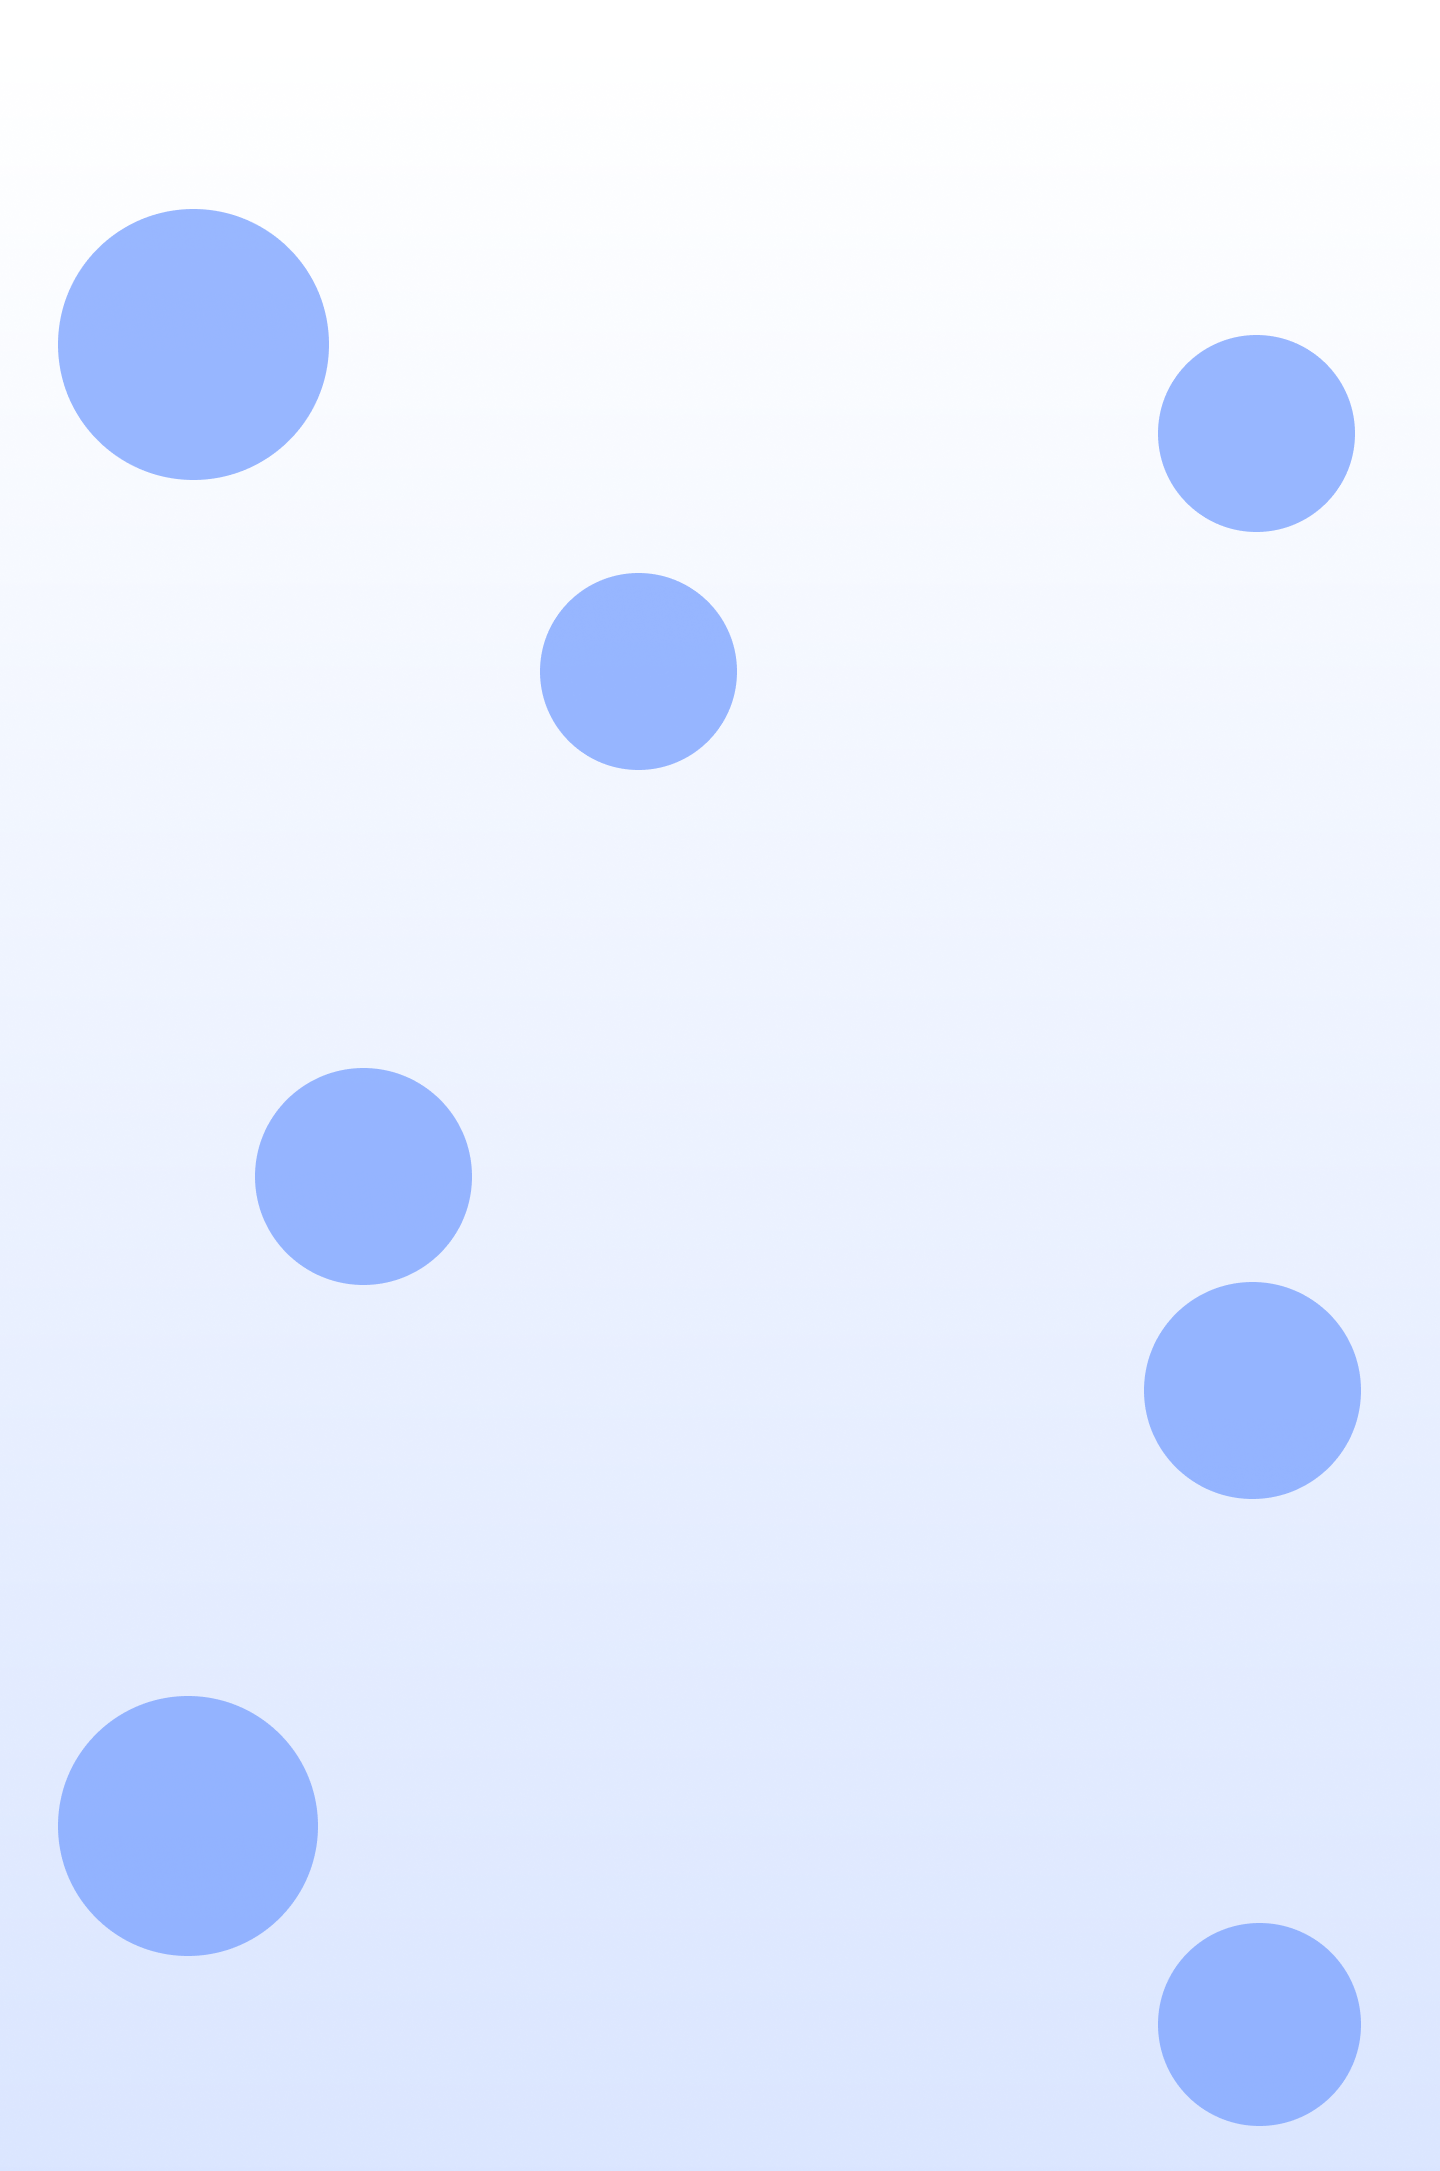
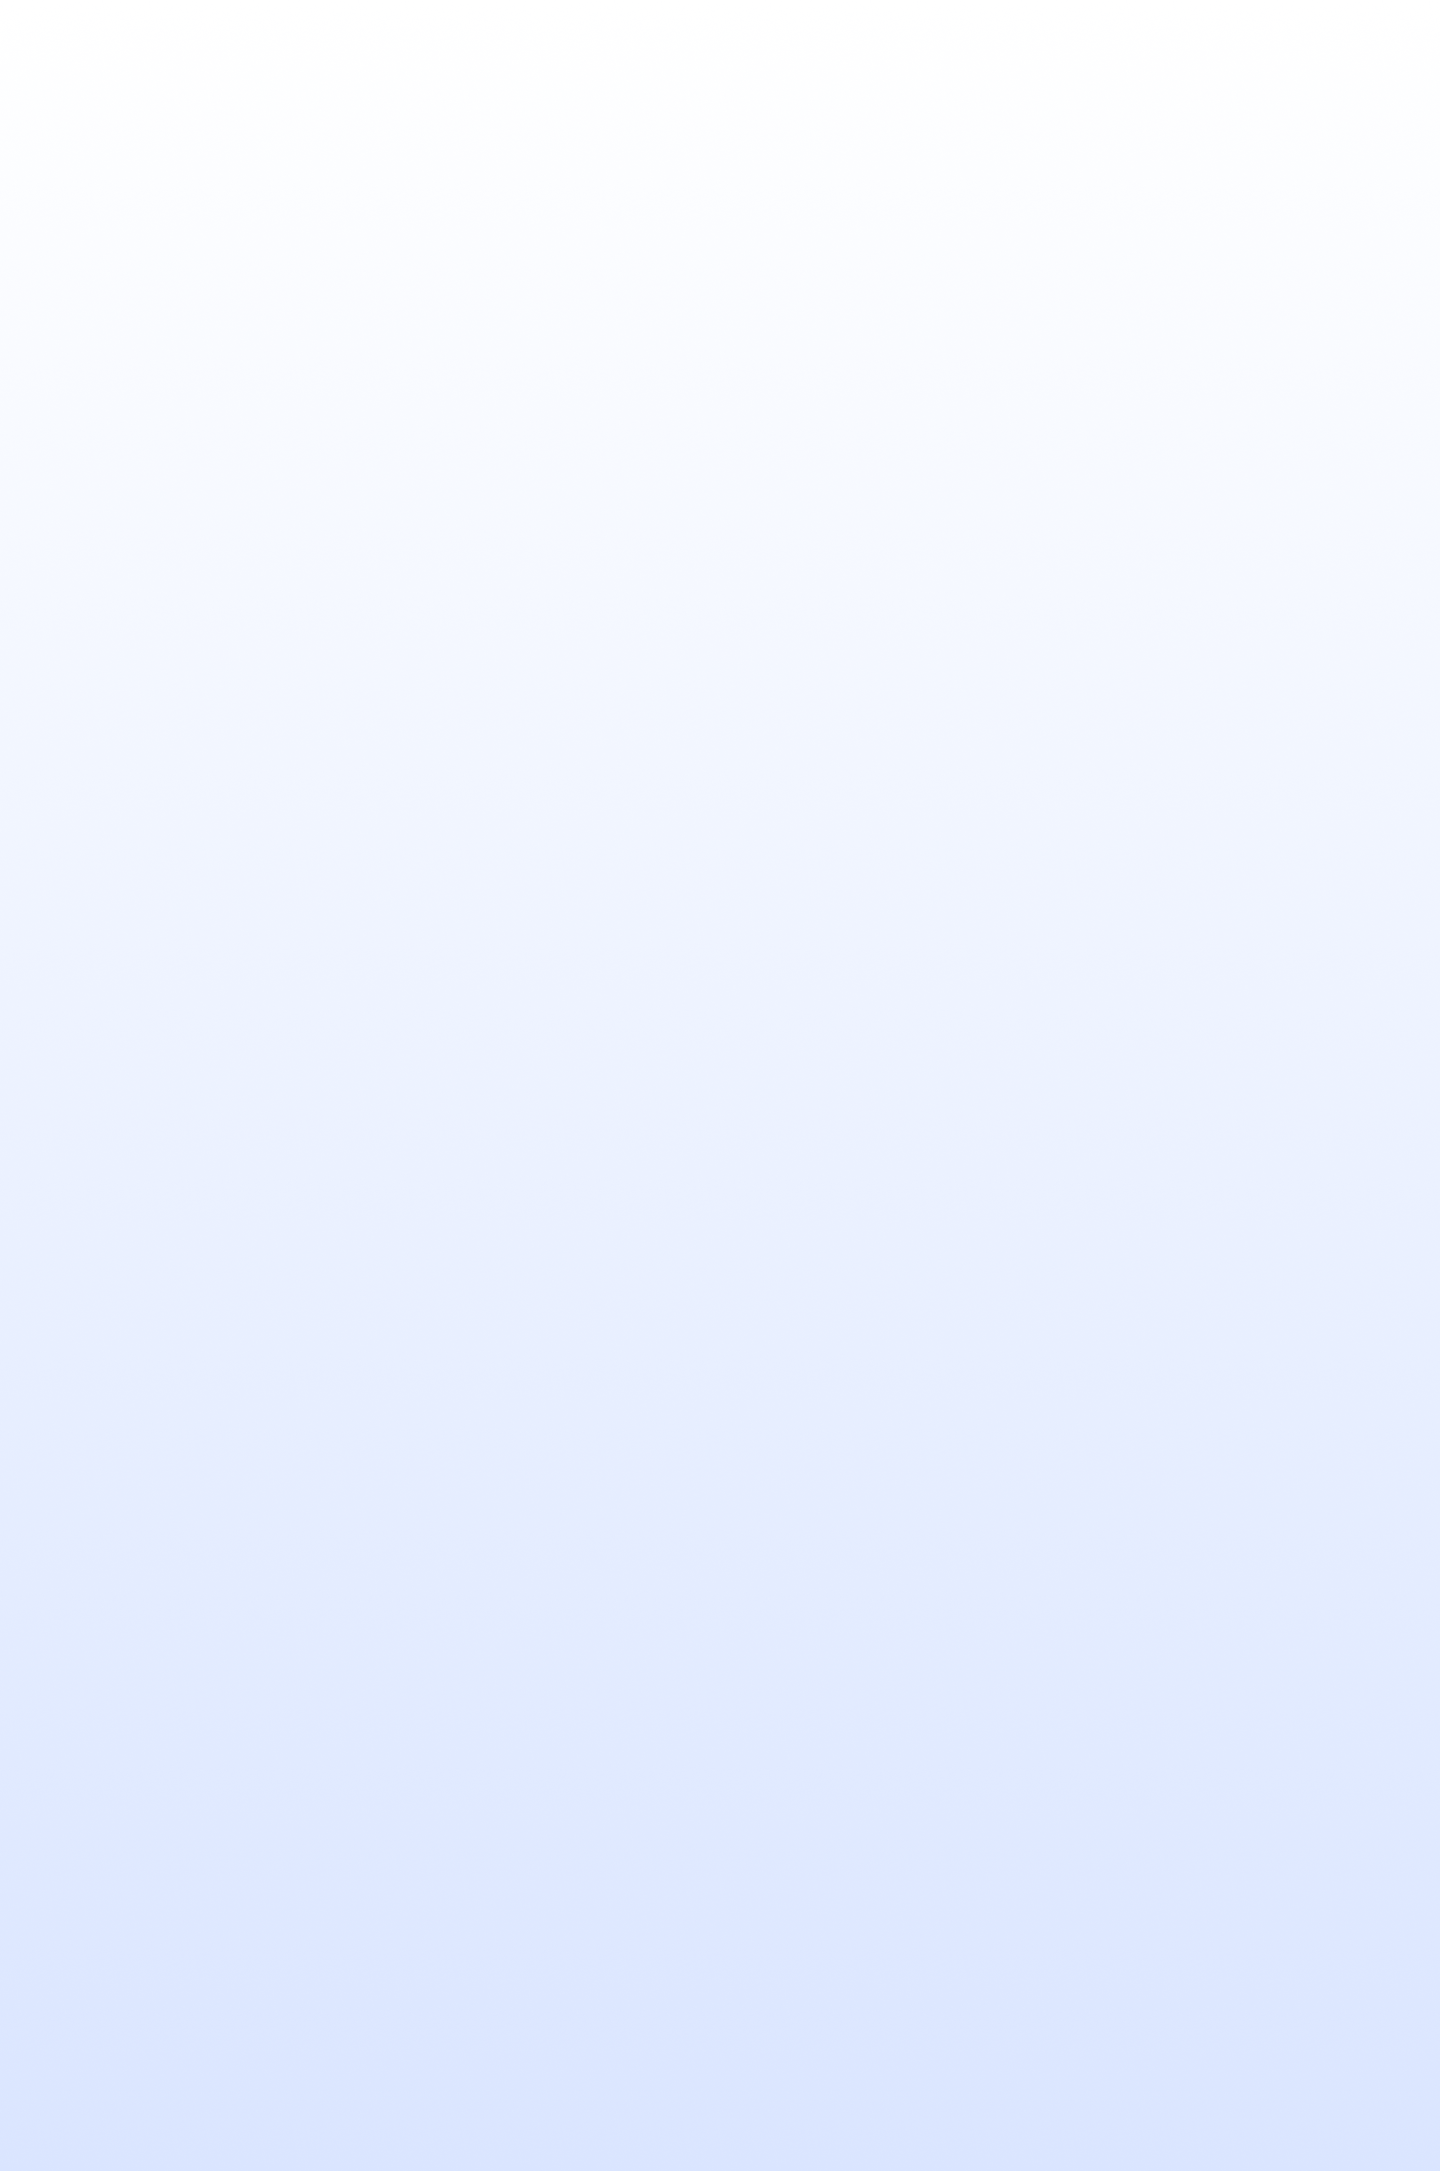
dev-cycle: background has changed

diff --git a/src/index.html b/src/index.html
@@ -172,6 +172,16 @@
             Полный цикл разработки
         </h2>
 
+        <div class="ellipses">
+            <img class="ellipse" src="./img/dev-cycle/Ellipse 1.png" alt="ellipse">
+            <img class="ellipse" src="./img/dev-cycle/Ellipse 1.png" alt="ellipse">
+            <img class="ellipse" src="./img/dev-cycle/Ellipse 1.png" alt="ellipse">
+            <img class="ellipse" src="./img/dev-cycle/Ellipse 1.png" alt="ellipse">
+            <img class="ellipse" src="./img/dev-cycle/Ellipse 1.png" alt="ellipse">
+            <img class="ellipse" src="./img/dev-cycle/Ellipse 1.png" alt="ellipse">
+            <img class="ellipse" src="./img/dev-cycle/Ellipse 1.png" alt="ellipse">
+        </div>
+
         <div class="dev-cycle_cards">
             <div class="dev-cycle_card">
                 <div class="dev-cycle_card-content">
@@ -207,6 +217,7 @@
                 <img src="./img/dev-cycle/Website Creator-rafiki 1.png" alt="">
             </div>
         </div>
+        <img class="wave" src="./img/dev-cycle/wave.png" alt="wave">
     </section>
 
     <section class="services">

diff --git a/src/style.css b/src/style.css
@@ -137,7 +137,7 @@ body {
 }
 
 .services {
-  margin-top: 50px;
+  margin-top: 300px;
 }
 .container-serveces-title {
   display: flex;
@@ -521,6 +521,66 @@ input[type=text]:focus {
   background-image: url("./img/dev-cycle/bg.png");
   background-size: 100% 100%;
   background-repeat: no-repeat;
+  position: relative;
+}
+
+.wave {
+  position: absolute;
+  width: 100%;
+  bottom: -1;
+  left: 0;
+  user-select: none;
+}
+
+.ellipses {
+  position: absolute;
+  width: 100%;
+  min-height: 2000px;
+} 
+
+.ellipse {
+  position: absolute;
+} 
+
+.ellipse:nth-child(1) {
+  top: 3%;
+  left: 15%;
+}
+
+.ellipse:nth-child(2) {
+  top: 9%;
+  right: 16%;
+  width: 197px;
+  height: 197px;
+}
+
+.ellipse:nth-child(3) {
+  top: 19%;
+  left: 40%;
+  width: 197px;
+  height: 197px;
+}
+
+.ellipse:nth-child(4) {
+  top: 44%;
+  left: 24%;
+}
+
+.ellipse:nth-child(5) {
+  top: 52%;
+  right: 16%;
+}
+
+.ellipse:nth-child(6) {
+  top: 73%;
+  left: 15%;
+}
+
+.ellipse:nth-child(7) {
+  top: 85%;
+  right: 16%;
+  width: 197px;
+  height: 197px;
 }
 
 .dev-cycle_title {
